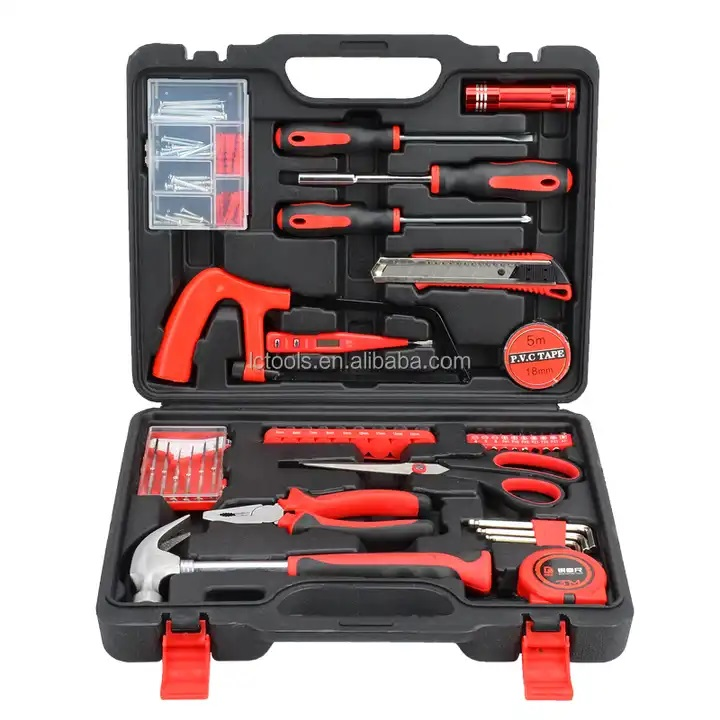
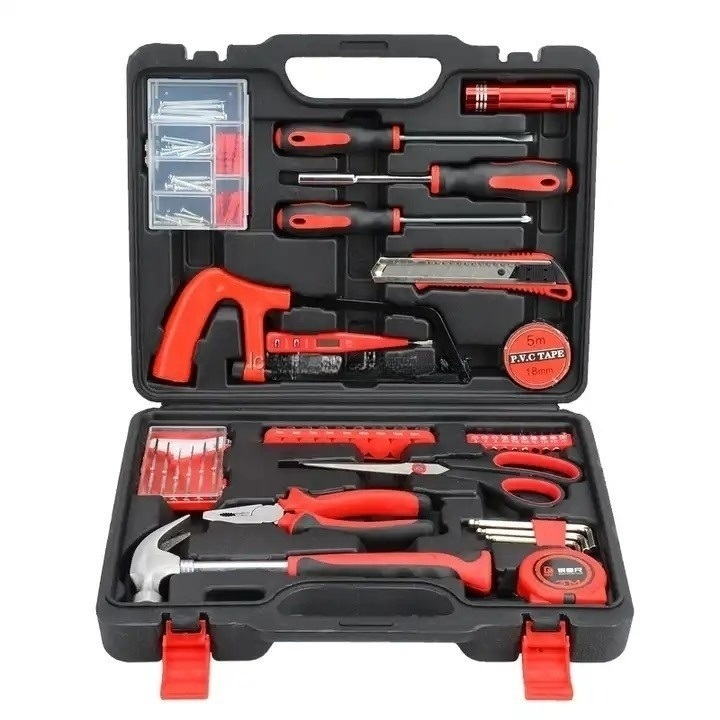
new main img

diff --git a/index.html b/index.html
@@ -34,7 +34,7 @@
       <div class="info_block">
         <p class="subtitle">45в1 Набор инструментов</p>
         <div class="discount"><b> 50% скидка</b></div>
-        <img src="img/1.3.jpg" alt="">
+        <img src="img/123.jpg" alt="">
       </div>
       <div class="price_block">
         <div class="price_item old">
@@ -272,7 +272,7 @@
       <div class="info_block">
         <p class="subtitle">45В1 НАБОР ИНСТРУМЕНТОВ<br></p>
         <div class="discount"><b> 50% скидка</b></div>
-          <img src="img/1.3.jpg" alt="">
+          <img src="img/123.jpg" alt="">
       </div>
       <div class="price_block clearfix" id="order_form">
         <div class="price_item old">
